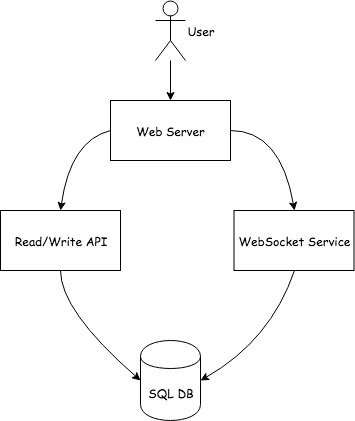
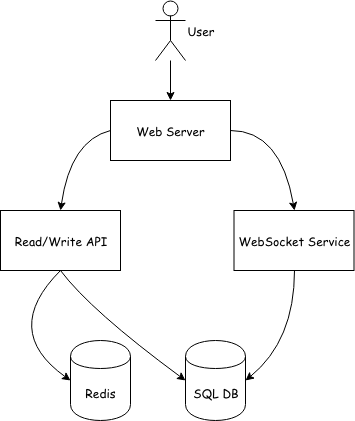
Update README and system_spec [ci skip]

diff --git a/system_spec.md b/system_spec.md
@@ -6,7 +6,8 @@
 * User views/creates/edits/deletes/invites member to TodoList
 * User creates/edits/deletes/archives Todo
 * User views EventLog
-* User searches Todo #1
+* User views/creates/deletes access token
+* Application developer accesses resource through API
 
 ## Constraints and assumptions
 
@@ -15,7 +16,6 @@
 * 1 million active users
 * 10 million new todos per day
 * 50 million read requests per day
-* 10 million searches per day
 
 Calculate usage
 
@@ -34,7 +34,6 @@ Calculate usage
   * 365 GB per year
 * 58 read requests per second
 * 12 new todo requests per second
-* 12 search requests per second
 
 ## High-level design
 
@@ -42,6 +41,8 @@ Calculate usage
 https://www.draw.io/#G1KF_OIeRQkhsfWZajTnZKSdSzXj5QHsyt
 
 Actions such as CRUD of `Todo` and create/delete of `TodoList` should update immediately to users. `WebSocket Service` handles those actions. Other actions can be done by `Read/Write API`.
+
+Redis handles cache and high volume reads/writes. For example, API throttling data is saved in redis.
 
 ## Database schema
 
@@ -59,3 +60,17 @@ invite member to TodoList| X | V | V
 delete TodoList| X | X | V
 
 `EventLog` is used to record every action of a user. Such as user creates `TodoList`, user updates `Todo` or user invites a member to `TodoList`.
+
+`Token` records scopes the user authorized to application developer. Scopes format is `[action]:[resource]`, such as `read:log`, `write:log`.
+
+## Potential bottleneck and TODOs
+
+The bottleneck of this app maybe rails action cable. It has poor performance when handle a large number of client.
+
+* Use Background job to reduce response time in controller caused by action cable broadcast.
+* Separate websocket server and application server instead of just using one server. Avoid app server from being affected by slow websocket.
+* If allowed, rewrite websocket server in another language such as Go, Erlang is better choice. Ruby on Rails is not fit for scalable concurrent applications. There is a open source project [AnyCable Rails](https://github.com/anycable/anycable-rails) do this.
+
+References:
+* [Action Cable 即時通訊](https://ihower.tw/rails/actioncable.html) by ihower
+* [AnyCable: Action Cable on steroids](https://evilmartians.com/chronicles/anycable-actioncable-on-steroids) by Vladimir Dementyev

diff --git a/README.md b/README.md
@@ -3,7 +3,8 @@
 [![Maintainability](https://api.codeclimate.com/v1/badges/c21eac6d198364066a7f/maintainability)](https://codeclimate.com/github/darren987469/todos/maintainability)
 [![Coverage Status](https://coveralls.io/repos/github/darren987469/todos/badge.svg?branch=master)](https://coveralls.io/github/darren987469/todos?branch=master)
 
-Features:
+## Features:
+
 * Todo list to organize your todos
 * Invite other people to join your list
 * Changes to todo are updated through websocket, no need to reload page
@@ -20,18 +21,6 @@ Production:  https://todos-actioncable.herokuapp.com/swagger
 Development: http://localhost:3000/swagger
 
 [How to authenticate with token guide](doc/how_to_authenticate_with_token.md)
-
-## Potential bottleneck and todos
-
-The bottleneck of this app maybe rails action cable. It has poor performance when handle a large number of client.
-
-* Use Background job to reduce response time in controller caused by action cable broadcast.
-* Separate websocket server and application server instead of just using one server. Avoid app server from being affected by slow websocket.
-* If allowed, rewrite websocket server in another language such as Go, Erlang is better choice. Ruby on Rails is not fit for scalable concurrent applications. There is a open source project [AnyCable Rails](https://github.com/anycable/anycable-rails) do this.
-
-References:
-* [Action Cable 即時通訊](https://ihower.tw/rails/actioncable.html) by ihower
-* [AnyCable: Action Cable on steroids](https://evilmartians.com/chronicles/anycable-actioncable-on-steroids) by Vladimir Dementyev
 
 ## Environment
 
